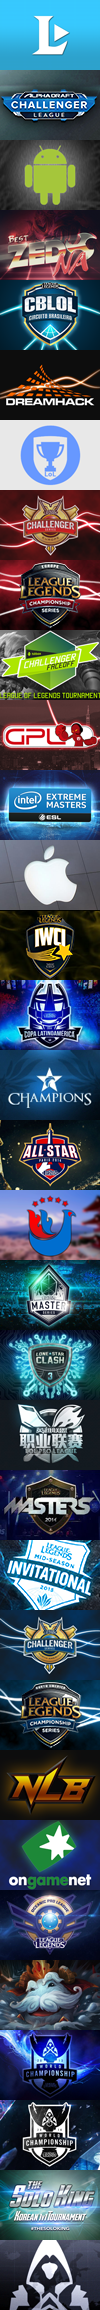
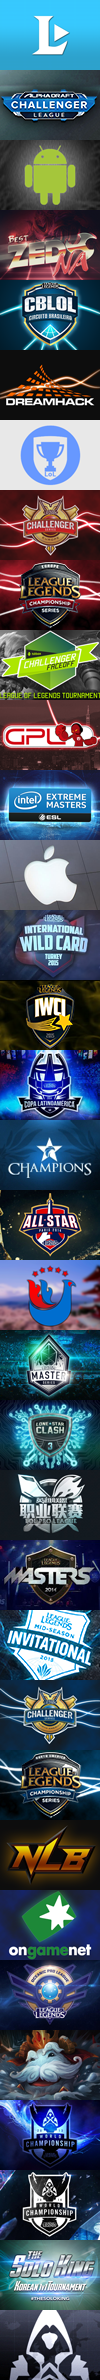
IWC2015 thumbnail

diff --git a/less/thumb-sprites.less b/less/thumb-sprites.less
@@ -11,26 +11,27 @@
 @gpl: -0px -700px 100px 70px;
 @iem: -0px -770px 100px 70px;
 @ios: -0px -840px 100px 70px;
-@iwci: -0px -910px 100px 70px;
-@latam: -0px -980px 100px 70px;
-@lck: -0px -1050px 100px 70px;
-@allstar: -0px -1120px 100px 70px;
-@ljl: -0px -1190px 100px 70px;
-@lms: -0px -1260px 100px 70px;
-@lonestar: -0px -1330px 100px 70px;
-@lpl: -0px -1400px 100px 70px;
-@masters: -0px -1470px 100px 70px;
-@msi: -0px -1540px 100px 70px;
-@nacs: -0px -1610px 100px 70px;
-@nalcs: -0px -1680px 100px 70px;
-@nlb: -0px -1750px 100px 70px;
-@ogn: -0px -1820px 100px 70px;
-@opl: -0px -1890px 100px 70px;
-@poro: -0px -1960px 100px 70px;
-@s3: -0px -2030px 100px 70px;
-@s4: -0px -2100px 100px 70px;
-@soloking: -0px -2170px 100px 70px;
-@wildcard: -0px -2240px 100px 70px;
+@iwc2015: -0px -910px 100px 70px;
+@iwci: -0px -980px 100px 70px;
+@latam: -0px -1050px 100px 70px;
+@lck: -0px -1120px 100px 70px;
+@allstar: -0px -1190px 100px 70px;
+@ljl: -0px -1260px 100px 70px;
+@lms: -0px -1330px 100px 70px;
+@lonestar: -0px -1400px 100px 70px;
+@lpl: -0px -1470px 100px 70px;
+@masters: -0px -1540px 100px 70px;
+@msi: -0px -1610px 100px 70px;
+@nacs: -0px -1680px 100px 70px;
+@nalcs: -0px -1750px 100px 70px;
+@nlb: -0px -1820px 100px 70px;
+@ogn: -0px -1890px 100px 70px;
+@opl: -0px -1960px 100px 70px;
+@poro: -0px -2030px 100px 70px;
+@s3: -0px -2100px 100px 70px;
+@s4: -0px -2170px 100px 70px;
+@soloking: -0px -2240px 100px 70px;
+@wildcard: -0px -2310px 100px 70px;
 .sprite-width(@sprite) {
   width: extract(@sprite, 3);
 }

diff --git a/less/thumbnails.less b/less/thumbnails.less
@@ -54,4 +54,5 @@
   &[href*="alphadraft"]            { .sprite-position(@adcl)!important; }  
   &[href*="wild_card_invitational_2015"]	{ .sprite-position(@iwci)!important; }
   &[href*="midseason_invitational_2015"]    { .sprite-position(@msi)!important; }
+  &[href*="2015_international_wild_card"]    { .sprite-position(@iwc2015)!important; }
 }
